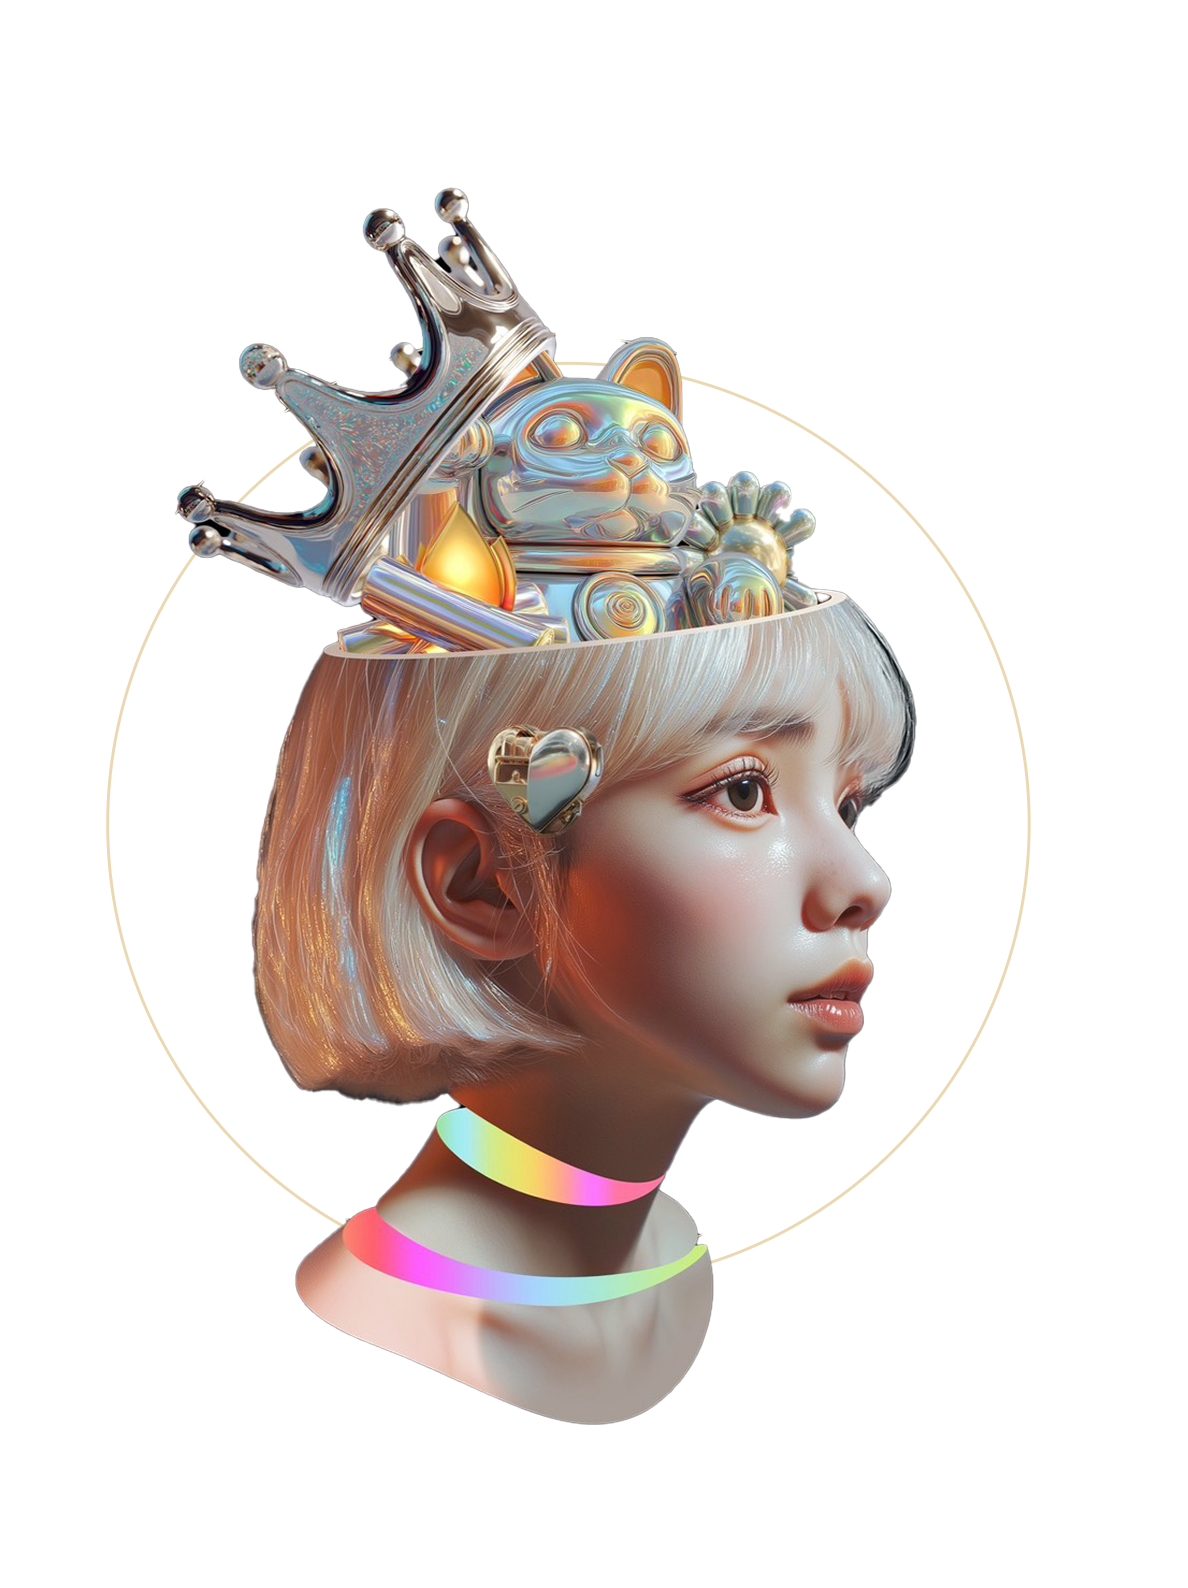
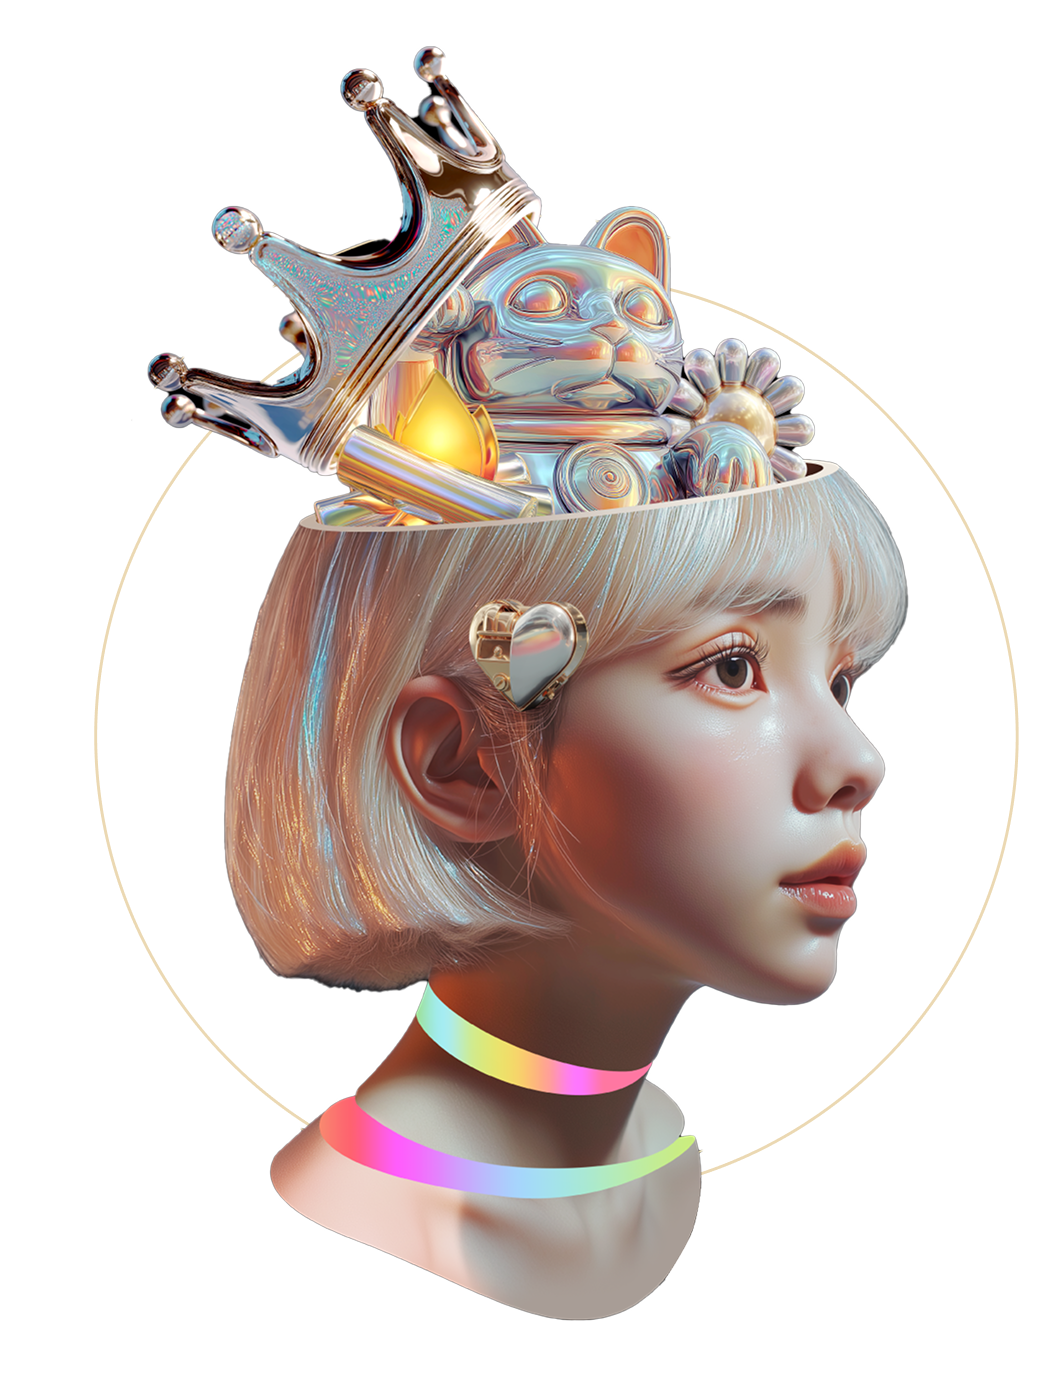
Update FaceSwapHomepage component by removing unused scoped styles and replacing the Group13948 image with a new version. This streamlines the component and improves asset management.

diff --git a/resources/js/faceswap/components/FaceSwapHomepage.vue b/resources/js/faceswap/components/FaceSwapHomepage.vue
@@ -65,7 +65,3 @@ function enterFaceSwap() {
   emit('enter-face-swap')
 }
 </script>
-
-<style scoped>
-/* 組件樣式 - 使用 Flexbox 佈局，無需額外的定位樣式 */
-</style>
